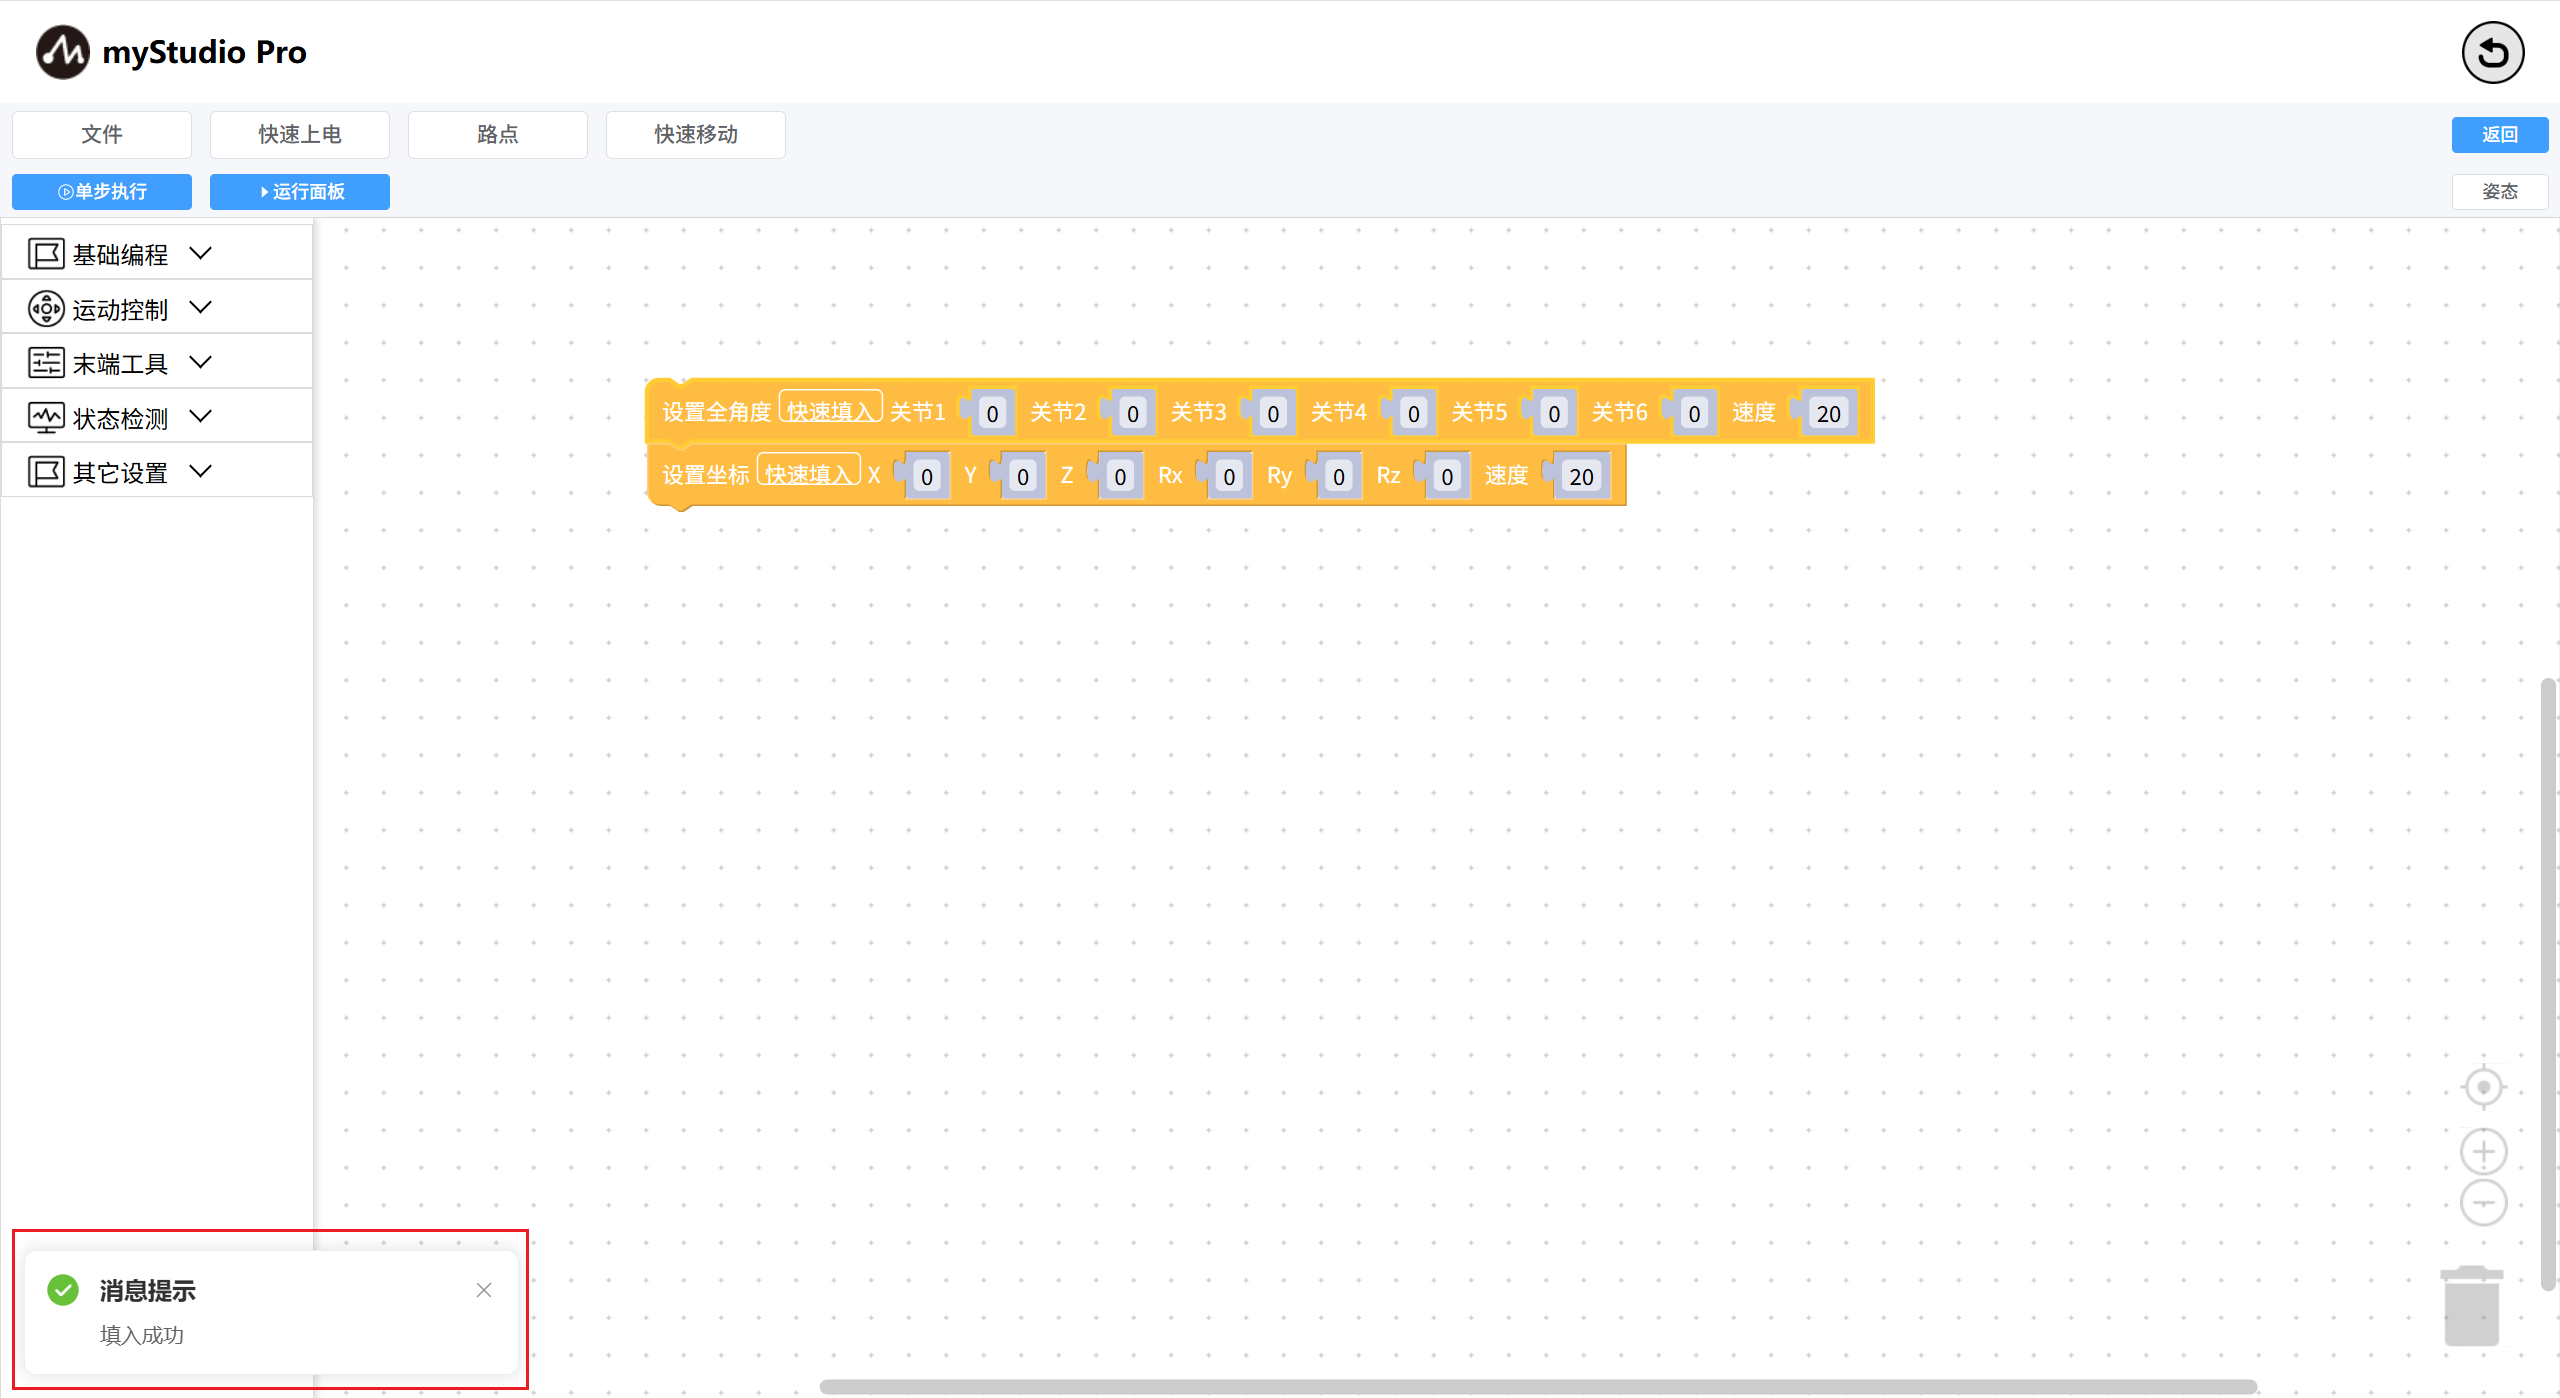
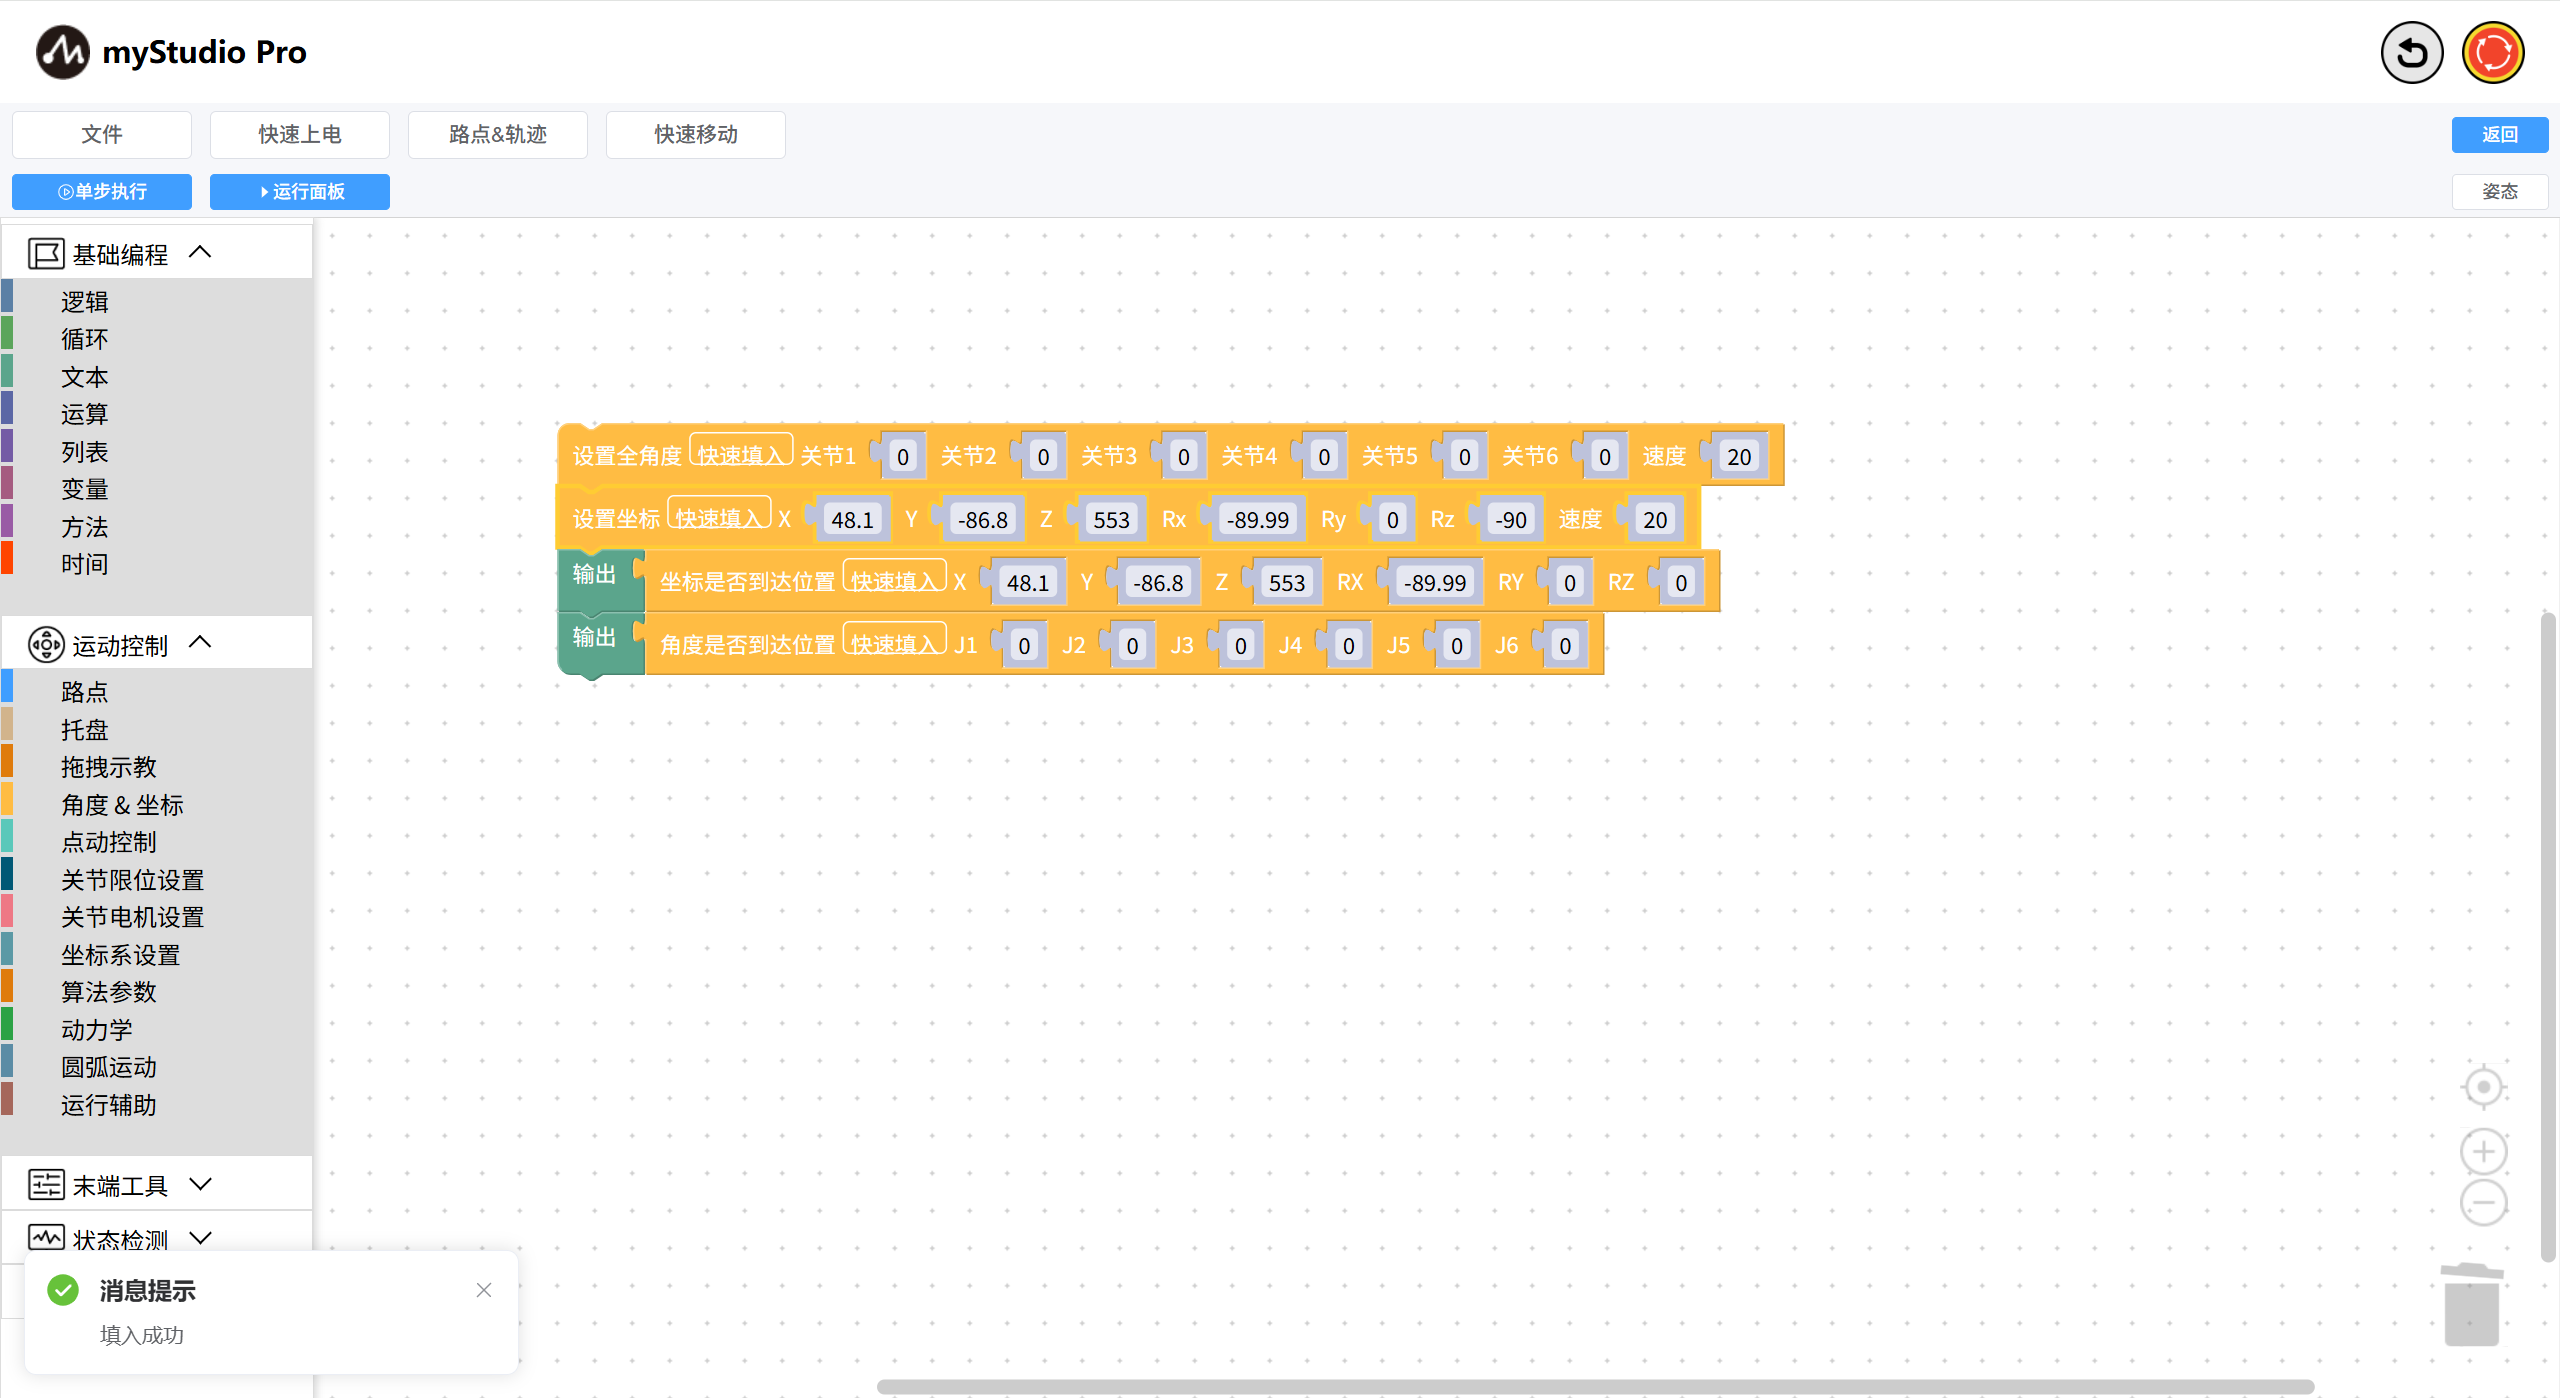
feat(pro450): Complete the content that requires machine connection

diff --git a/myCobot_Pro_450_cn/3-FunctionsAndApplications/5-BasicApplication/5.5-blockly/5.5.3-littleCase.md b/myCobot_Pro_450_cn/3-FunctionsAndApplications/5-BasicApplication/5.5-blockly/5.5.3-littleCase.md
@@ -1,10 +1,19 @@
 # 小案例
 
+*开始之前*
+
+> *1、确保机器已上电*
+>
+> *2、确保机器连接正常*
+>
+> *3、服务端已开启*
+>
+
 我们来写一个小案例，通过这个案例来介绍`blockly`的基础使用
 
-**案例描述：**控制机械臂回零，然后控制一关节移动到20度的位置，然后再回到零位。
+**案例描述：** 控制机械臂回零，然后控制一关节移动到20度的位置，然后再回到零位。
 
-**第一步：**首先点击`姿态`按钮，打开姿态视图，在这里可以看到仿真机械臂的当前姿态。
+**第一步：** 首先点击`姿态`按钮，打开姿态视图，在这里可以看到仿真机械臂的当前姿态。
 
 <img src="../../../resources/3-FunctionsAndApplications/5.myBlockly/blockly/posture-btn.png" />
 
@@ -13,7 +22,7 @@
 - 1：切换姿态面板：当姿态面板隐藏时点击显示，反之点击收起。
 - 2：机械臂仿真模型，可根据当前真实角度实时仿真运动。
 
-**第二步：**开始编程
+**第二步：** 开始编程
 
 打开工具箱一级分类`运动控制`，选择二级分类`角度&坐标`，拖动`设置全角度`积木块到工作区。
 
@@ -53,9 +62,15 @@
 > - 等待3秒钟<br />
 > - 控制机械臂回到零点<br />
 
-最后，点击`运行面板`按钮，打开面板后，点击`运行`按钮开始执行代码。
+最后，点击`运行面板`按钮，打开面板后，点击`运行`按钮开始执行代码，运行面板右侧会实时显示关节、角度坐标，同时3D模型也会仿真运动。
+
+<img src="../../../resources/3-FunctionsAndApplications/5.myBlockly/blockly/case-run.png" />
+
+<img src="../../../resources/3-FunctionsAndApplications/5.myBlockly/blockly/case-run2.png" />
 
 代码运行完成，点击面板`X` 可关闭面板
+
+<img src="../../../resources/3-FunctionsAndApplications/5.myBlockly/blockly/case-run1.png" />
 
 **第三步：**保存 和 加载 文件（或者说保存加载工作区）
 

diff --git a/myCobot_Pro_450_cn/3-FunctionsAndApplications/5-BasicApplication/5.5-blockly/5.5.7-singleStep.md b/myCobot_Pro_450_cn/3-FunctionsAndApplications/5-BasicApplication/5.5-blockly/5.5.7-singleStep.md
@@ -1,16 +1,27 @@
 # 单步执行
+
+*开始之前*
+
+> *1、确保机器已上电*
+>
+> *2、确保机器连接正常*
+>
+> *3、服务端已开启*
+
 所谓的单步执行，是指：单积木块执行。当工作区存在大量积木块时，我只想执行其中的一个积木块，看看是什么效果。这个时候就可以用到 单步执行
 
 > **单步执行** 按钮 默认处于禁用状态，是不可点击的
 
-**第一步：**拖动几个设置关节积木块进入工作区
+**第一步：** 拖动几个设置关节积木块进入工作区
 
 <img src="../../../resources/3-FunctionsAndApplications/5.myBlockly/blockly/singleStep1.png" />
 
-**第二步：**选中 `设置关节`积木块，观察到 **单步执行** 按钮已被解锁（颜色变为了深色）
+**第二步：** 选中 `设置关节` 积木块，观察到 **单步执行** 按钮已被解锁（颜色变为了深色）
 
 <img src="../../../resources/3-FunctionsAndApplications/5.myBlockly/blockly/singleStep2.png" />
 
-**第三步：**点击 **单步执行** 按钮，会打开运行面板，点击面板中的`运行`按钮开始执行代码。同时，观察机械臂运动变化。
+**第三步：** 点击 **单步执行** 按钮，会自动打开运行面板，并开始执行代码。同时，观察机械臂运动变化。(单步执行设置关节1为90°)
+
+<img src="../../../resources/3-FunctionsAndApplications/5.myBlockly/blockly/singleStep3.png" />
 
 [← 上一页](./5.5.6-useCoords.md) | [下一页 →](./5.5.8-program.md)

diff --git a/myCobot_Pro_450_cn/3-FunctionsAndApplications/5-BasicApplication/5.5-blockly/5.5.5-quickMove.md b/myCobot_Pro_450_cn/3-FunctionsAndApplications/5-BasicApplication/5.5-blockly/5.5.5-quickMove.md
@@ -1,5 +1,13 @@
 # 快速移动
 
+*开始之前*
+
+> *1、确保机器已上电*
+>
+> *2、确保机器连接正常*
+>
+> *3、服务端已开启*
+
 什么是 **快速移动** ？简单来讲就是，无需编程，仅通过鼠标点击的方式快速控制机器人移动。
 
 > 备注：myStudio 中有两个 **快速移动** 控制面板，两者功能相差不大
@@ -8,15 +16,23 @@
 
 <img src="../../../resources/3-FunctionsAndApplications/5.myBlockly/blockly/quickmove1.png" />
 
+<img src="../../../resources/3-FunctionsAndApplications/5.myBlockly/blockly/quickmove2.png" />
+
 如果没有数据全为零，请检查是否已连接机械臂，机械臂是否正常
 
-**第二步：**尝试点击`-` / `+`按钮控制机械臂的不同关节。
+**第二步：** `-` / `+`按钮控制机械臂的不同关节，支持单点、长按持续移动和直接修改角度、坐标并按下`Enter`回车控制。
 
-**第三步：**控制坐标。
+<img src="../../../resources/3-FunctionsAndApplications/5.myBlockly/blockly/quickmove3.png" />
+
+**第三步：** 控制坐标。
 
 首先需要先将 关节 3 移动到 -90左右的位置，如下图。
 
+<img src="../../../resources/3-FunctionsAndApplications/5.myBlockly/blockly/quickmove4.png" />
+
 然后就可以点击不同坐标轴的`-` / `+` 按钮来控制坐标了
+
+<img src="../../../resources/3-FunctionsAndApplications/5.myBlockly/blockly/quickmove5.png" />
 
 对于其它功能，请查阅[快速移动](../5.1.6-quickmove/5.1.6.1-quickmovefirstuse.md)
 

diff --git a/myCobot_Pro_450_cn/3-FunctionsAndApplications/5-BasicApplication/5.5-blockly/5.5.6-useCoords.md b/myCobot_Pro_450_cn/3-FunctionsAndApplications/5-BasicApplication/5.5-blockly/5.5.6-useCoords.md
@@ -1,8 +1,12 @@
 # 学习使用坐标控制
-开始之前
-> 1、确保机器已上电
-> 2、确保机器服务器端已开启
-> 3、确保机器处于零位
+
+*开始之前*
+
+> *1、确保机器已上电*
+>
+> *2、确保机器连接正常*
+>
+> *3、服务端已开启*
 
 本章介绍如何使用坐标来控制机械臂。
 
@@ -36,12 +40,18 @@
 
     打开`运行面板`，运行代码。
 
+    <img src="../../../resources/3-FunctionsAndApplications/5.myBlockly/blockly/coords3.png" />
+
 #### 坐标移动
 
-拖动一个`设置坐标`积木块到工作区，并点击积木块中的`快速填入`按钮填入数据，并将 `Z` 轴数据修改为 `400`
+拖动一个`设置坐标`积木块到工作区，并点击积木块中的`快速填入`按钮填入数据，并将 `Z` 轴数据修改为 `300`
 
 完整代码如下：
 
+<img src="../../../resources/3-FunctionsAndApplications/5.myBlockly/blockly/coords4.png" />
+
 执行代码，整个过程观察到机械臂在上下移动
+
+<img src="../../../resources/3-FunctionsAndApplications/5.myBlockly/blockly/coords5.png" />
 
 [← 上一页](./5.5.5-quickMove.md) | [下一页 →](./5.5.7-singleStep.md)

diff --git a/myCobot_Pro_450_cn/3-FunctionsAndApplications/5-BasicApplication/5.5-blockly/5.5.8-program.md b/myCobot_Pro_450_cn/3-FunctionsAndApplications/5-BasicApplication/5.5-blockly/5.5.8-program.md
@@ -5,16 +5,20 @@
 > *1、确保机器已上电*
 >
 > *2、确保机器连接正常*
+>
+> *3、服务端已开启*
 
 本章介绍如何通过`运行面板`来调试积木块代码，实现程序的 `暂停`、`恢复`、**`单步执行`**、`停止`。
 
-编辑一段控制 机械臂 关节1 运动的程序
+编辑一段控制 机械臂 `关节1` 运动的程序
 
 <img src="../../../resources/3-FunctionsAndApplications/5.myBlockly/blockly/program1.png" />
 
 <img src="../../../resources/3-FunctionsAndApplications/5.myBlockly/blockly/program2.png" />
 
 点击`运行面板`按钮，当运行面板弹出后，点击`运行全部`，马上点击 `暂停`按钮，程序会在执行完第一条指令`mc.send_angle(1,0,20)` 后暂停。
+
+<img src="../../../resources/3-FunctionsAndApplications/5.myBlockly/blockly/program3.png" />
 
 程序已暂停。出现下一条要执行的指令`time.sleep(3)`
 

diff --git a/myCobot_Pro_450_cn/3-FunctionsAndApplications/5-BasicApplication/5.5-blockly/5.5.2-interfaceDescription.md b/myCobot_Pro_450_cn/3-FunctionsAndApplications/5-BasicApplication/5.5-blockly/5.5.2-interfaceDescription.md
@@ -6,7 +6,7 @@
 | ---- | ------------------------------------------------------------ |
 | 1    | 文件：可以进行 加载、保存、新建工作区 的操作；               |
 | 2    | 快速上电：机械臂释放/抱紧关节；                              |
-| 3    | 路点：快速创建示教点并运行；                                 |
+| 3    | 路点&轨迹：快速创建示教点并运行；                                 |
 | 4    | 快速移动：用于快速控制机械臂运动；                           |
 | 5    | 返回：退出`blockly`主界面                                    |
 | 6    | 单步执行：选中某个积木块，可以单击该按钮，只执行当前选中的积木块； |

diff --git a/myCobot_Pro_450_cn/3-FunctionsAndApplications/5-BasicApplication/5.5-blockly/5.5.4-autofill.md b/myCobot_Pro_450_cn/3-FunctionsAndApplications/5-BasicApplication/5.5-blockly/5.5.4-autofill.md
@@ -1,5 +1,13 @@
 # 快速填入数据
 
+*开始之前*
+
+> *1、确保机器已上电*
+>
+> *2、确保机器连接正常*
+>
+> *3、服务端已开启*
+
 本章介绍积木块的中 快速填入 功能。
 
 当一个积木块拥有过多的数据项，一个一个填入未免过于麻烦。 于是对于数据项填入项过多的积木块，我们可以使用快速填入功能。
